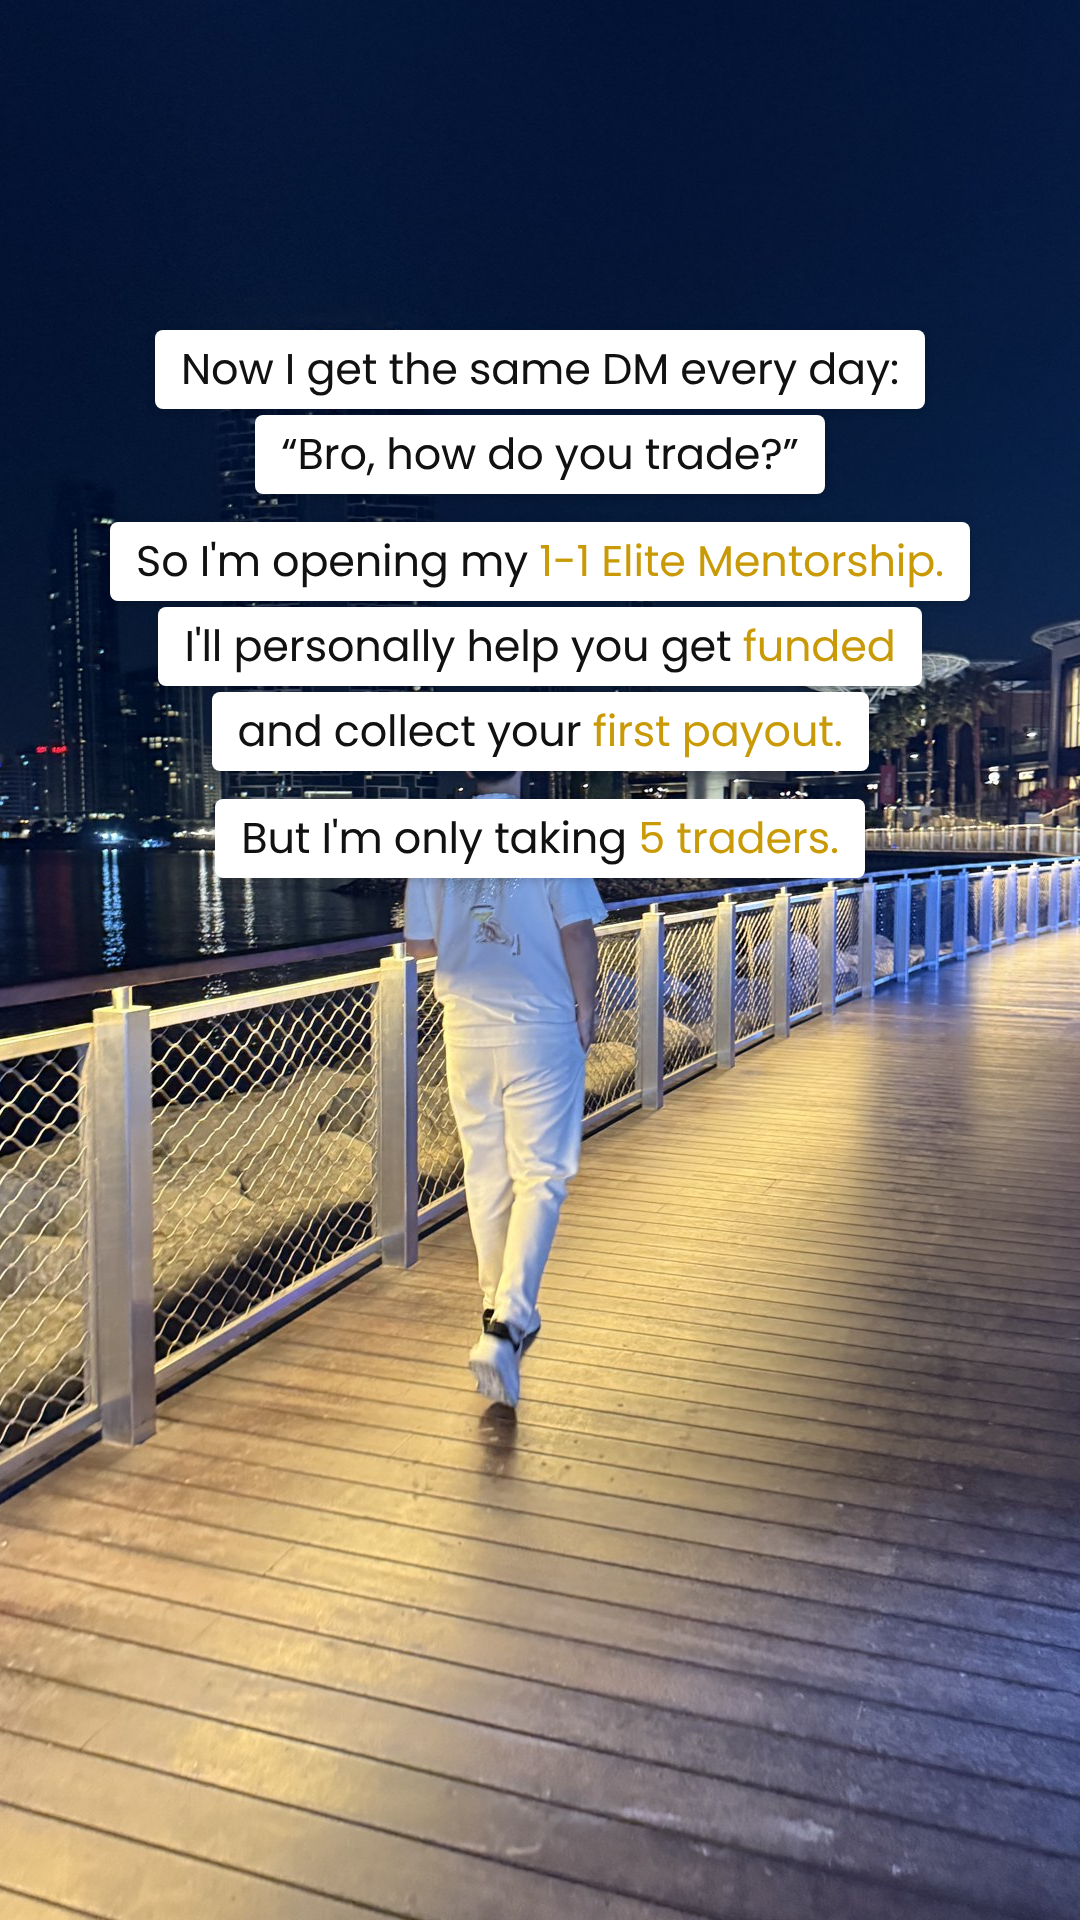
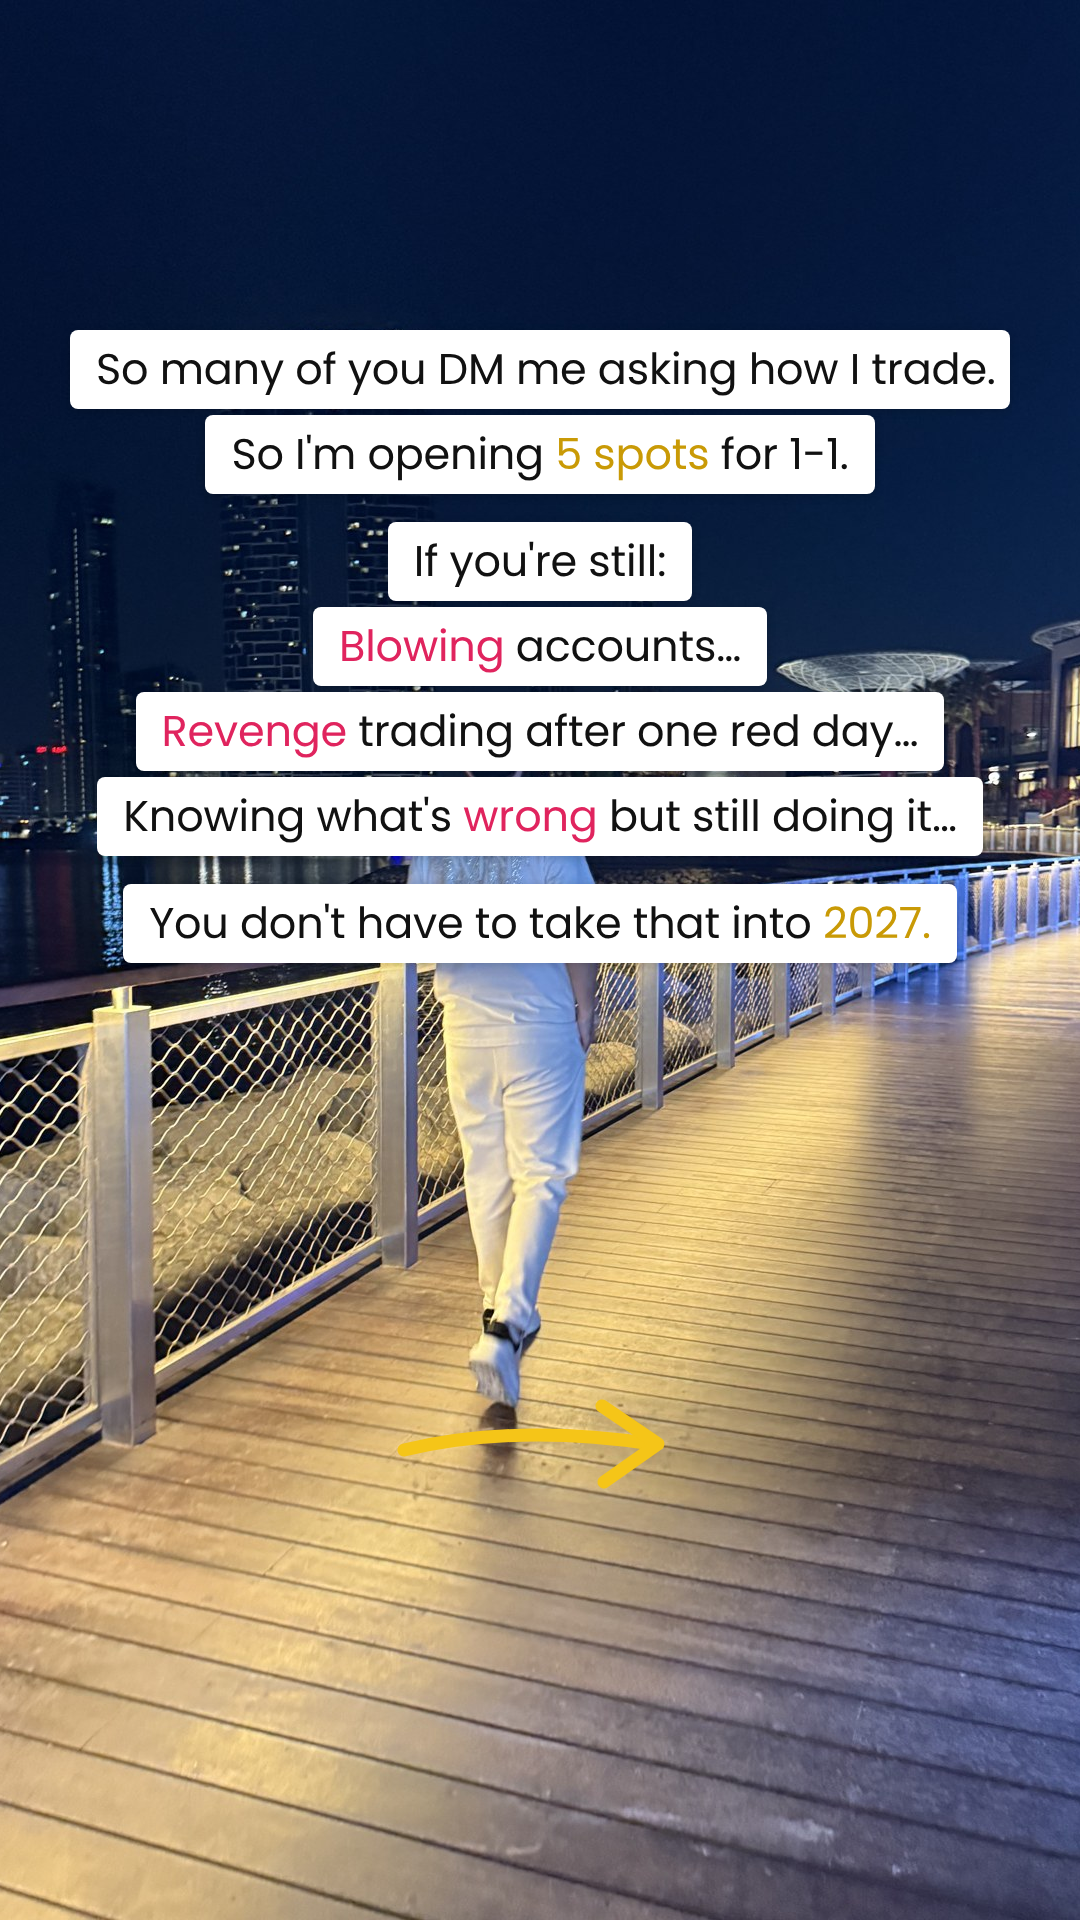
Rework frames 03-04 of Elite launch on the reference's pain-list and close
Claude-Session: https://claude.ai/code/session_015aTEPXDLdQUfqpoP6cz2Re

Changed region(s): [[0.0611, 0.1562, 0.9472, 0.5], [0.4278, 0.7188, 0.6111, 0.7812], [0.3667, 0.75, 0.4278, 0.7812]]

diff --git a/sequences/2026-11-23_hard_elite-mentorship-launch/frames/03.html b/sequences/2026-11-23_hard_elite-mentorship-launch/frames/03.html
@@ -1,11 +1,12 @@
 <!doctype html><html><head><meta charset="utf-8"><link rel="stylesheet" href="style.css"></head><body>
 <div class="bg" style="background-image:url(../assets/03-boardwalk.jpg);"></div>
 <div class="stack" style="top:330px">
-<p>Now I get the same DM every day:</p>
-<p>&ldquo;Bro, how do you trade?&rdquo;</p>
-<p class="gap">So I&#39;m opening my <span class="g">1-1 Elite Mentorship.</span></p>
-<p>I&#39;ll personally help you get <span class="g">funded</span></p>
-<p>and collect your <span class="g">first payout.</span></p>
-<p class="gap">But I&#39;m only taking <span class="g">5 traders.</span></p>
+<p>So many of you DM me asking how I trade.</p>
+<p>So I&#39;m opening <span class="g">5 spots</span> for 1-1.</p>
+<p class="gap">If you&#39;re still:</p>
+<p><span class="r">Blowing</span> accounts&hellip;</p>
+<p><span class="r">Revenge</span> trading after one red day&hellip;</p>
+<p>Knowing what&#39;s <span class="r">wrong</span> but still doing it&hellip;</p>
+<p class="gap">You don&#39;t have to take that into <span class="g">2027.</span></p>
 </div>
-</body></html>
+<svg class="arrow" style="left:390px;top:1380px" viewBox="0 0 300 120"><path d="M14 70 C 90 52, 170 50, 262 64" fill="none" stroke="#f5c518" stroke-width="13" stroke-linecap="round"/><path d="M212 26 L 268 64 L 214 102" fill="none" stroke="#f5c518" stroke-width="13" stroke-linecap="round" stroke-linejoin="round"/></svg></body></html>

diff --git a/sequences/2026-11-23_hard_elite-mentorship-launch/frames/04.html b/sequences/2026-11-23_hard_elite-mentorship-launch/frames/04.html
@@ -3,8 +3,9 @@
 <div class="stack" style="top:330px">
 <p>I&#39;ve been there.</p>
 <p>And I know how to <span class="g">fix it.</span></p>
-<p class="gap">Not funded in 3 months?</p>
-<p>I coach you for <span class="g">free</span> until you are.</p>
+<p class="gap">So if you&#39;re genuinely <span class="g">serious</span></p>
+<p>about getting <span class="g">funded</span> in 2027&hellip;</p>
+<p class="gap">I&#39;ll coach you 1-1 until you <span class="g">are.</span></p>
 <p class="gap">Only <span class="g">5 spots.</span></p>
 <p>Tap the link &amp; <span class="g">apply</span> 👇</p>
 </div>

diff --git a/sequences/2026-11-23_hard_elite-mentorship-launch/frames/02.html b/sequences/2026-11-23_hard_elite-mentorship-launch/frames/02.html
@@ -8,4 +8,4 @@
 <p>For the first time, I could see</p>
 <p>who&#39;s <span class="g">really</span> buying and selling.</p>
 </div>
-<svg class="arrow" style="left:390px;top:1300px" viewBox="0 0 300 120"><path d="M14 70 C 90 52, 170 50, 262 64" fill="none" stroke="#f5c518" stroke-width="13" stroke-linecap="round"/><path d="M212 26 L 268 64 L 214 102" fill="none" stroke="#f5c518" stroke-width="13" stroke-linecap="round" stroke-linejoin="round"/></svg></body></html>
+</body></html>

diff --git a/sequences/2026-11-23_hard_elite-mentorship-launch/sequence.md b/sequences/2026-11-23_hard_elite-mentorship-launch/sequence.md
@@ -10,11 +10,11 @@
 - **References used:** `01-inspiration/hard-cta/` H1 (white native text boxes, pink = pain, gold = reward, LARP background, yellow arrow, "I've been there. And I know how to fix it." close). Copy sources: VSL script, Elite 1-1 offer deck, apply page, onboarding call, ICP research.
 - **Placeholders left:** none. To confirm: the 3-month guarantee (from the offer deck) is final.
 
-## Arc (v2, tighter: 5–6 boxes per frame like the reference)
+## Arc (v4: frames 3–4 follow the reference's last two frames)
 1. Flex → vulnerability: construction → Dubai, more than he dreamed of → NOT easy, almost quit
-2. The low point (blew accounts, ICT, guessing) → a friend: learn order flow → saw who's really buying/selling (arrow)
-3. Now the same DM every day: "how do you trade?" → 1-1 Elite Mentorship → funded + first payout → only 5 traders
-4. I've been there, I know how to fix it → guarantee → 5 spots → tap the link & apply
+2. Low point (blew accounts, ICT, guessing) → a friend: learn order flow → saw who's really buying/selling
+3. People DM asking how I trade → opening 5 spots for 1-1 → "If you're still:" pain list → "You don't have to take that into 2027." (yellow arrow)
+4. I've been there, I know how to fix it → genuinely serious about getting funded → I'll coach you 1-1 until you are → 5 spots → tap the link & apply
 
 ## Frames
 
@@ -23,17 +23,17 @@
 - **Assets:** `assets/01-yacht-dubai.jpg` (IMG_9990)
 
 ### 02: Low point → turn
-- **Copy:** I blew account after account. / Years of ICT. A paid mentorship. / Still guessing every single trade. / Then a friend told me: learn order flow. / For the first time, I could see / who's really buying and selling. (+ yellow arrow)
+- **Copy:** I blew account after account. / Years of ICT. A paid mentorship. / Still guessing every single trade. / Then a friend told me: learn order flow. / For the first time, I could see / who's really buying and selling.
 - **Assets:** `assets/02-car-night.jpg` (IMG_6405)
 
-### 03: Demand → offer
-- **Copy:** Now I get the same DM every day: / "Bro, how do you trade?" / So I'm opening my 1-1 Elite Mentorship. / I'll personally help you get funded / and collect your first payout. / But I'm only taking 5 traders.
+### 03: Offer + pain list (ref H1 frame 10)
+- **Copy:** So many of you DM me asking how I trade. / So I'm opening 5 spots for 1-1. / If you're still: / Blowing accounts… / Revenge trading after one red day… / Knowing what's wrong but still doing it… / You don't have to take that into 2027. (+ yellow arrow)
 - **Assets:** `assets/03-boardwalk.jpg` (IMG_3780)
 
-### 04: Hard CTA
-- **Copy:** I've been there. / And I know how to fix it. / Not funded in 3 months? / I coach you for free until you are. / Only 5 spots. / Tap the link & apply 👇
+### 04: Hard CTA (ref H1 frame 11)
+- **Copy:** I've been there. / And I know how to fix it. / So if you're genuinely serious / about getting funded in 2027… / I'll coach you 1-1 until you are. / Only 5 spots. / Tap the link & apply 👇
 - **Assets:** `assets/04-rooftop.jpg` (IMG_5401)
-- **Add in app:** **link sticker** to the apply page, on his back (~y 1150–1350)
+- **Add in app:** **link sticker** to the apply page, on his back (~y 1100–1300)
 
 ## Posting notes
 - Post all 4 back to back. Repost frame 04 the next day ("3 spots left" etc. — only if true).
